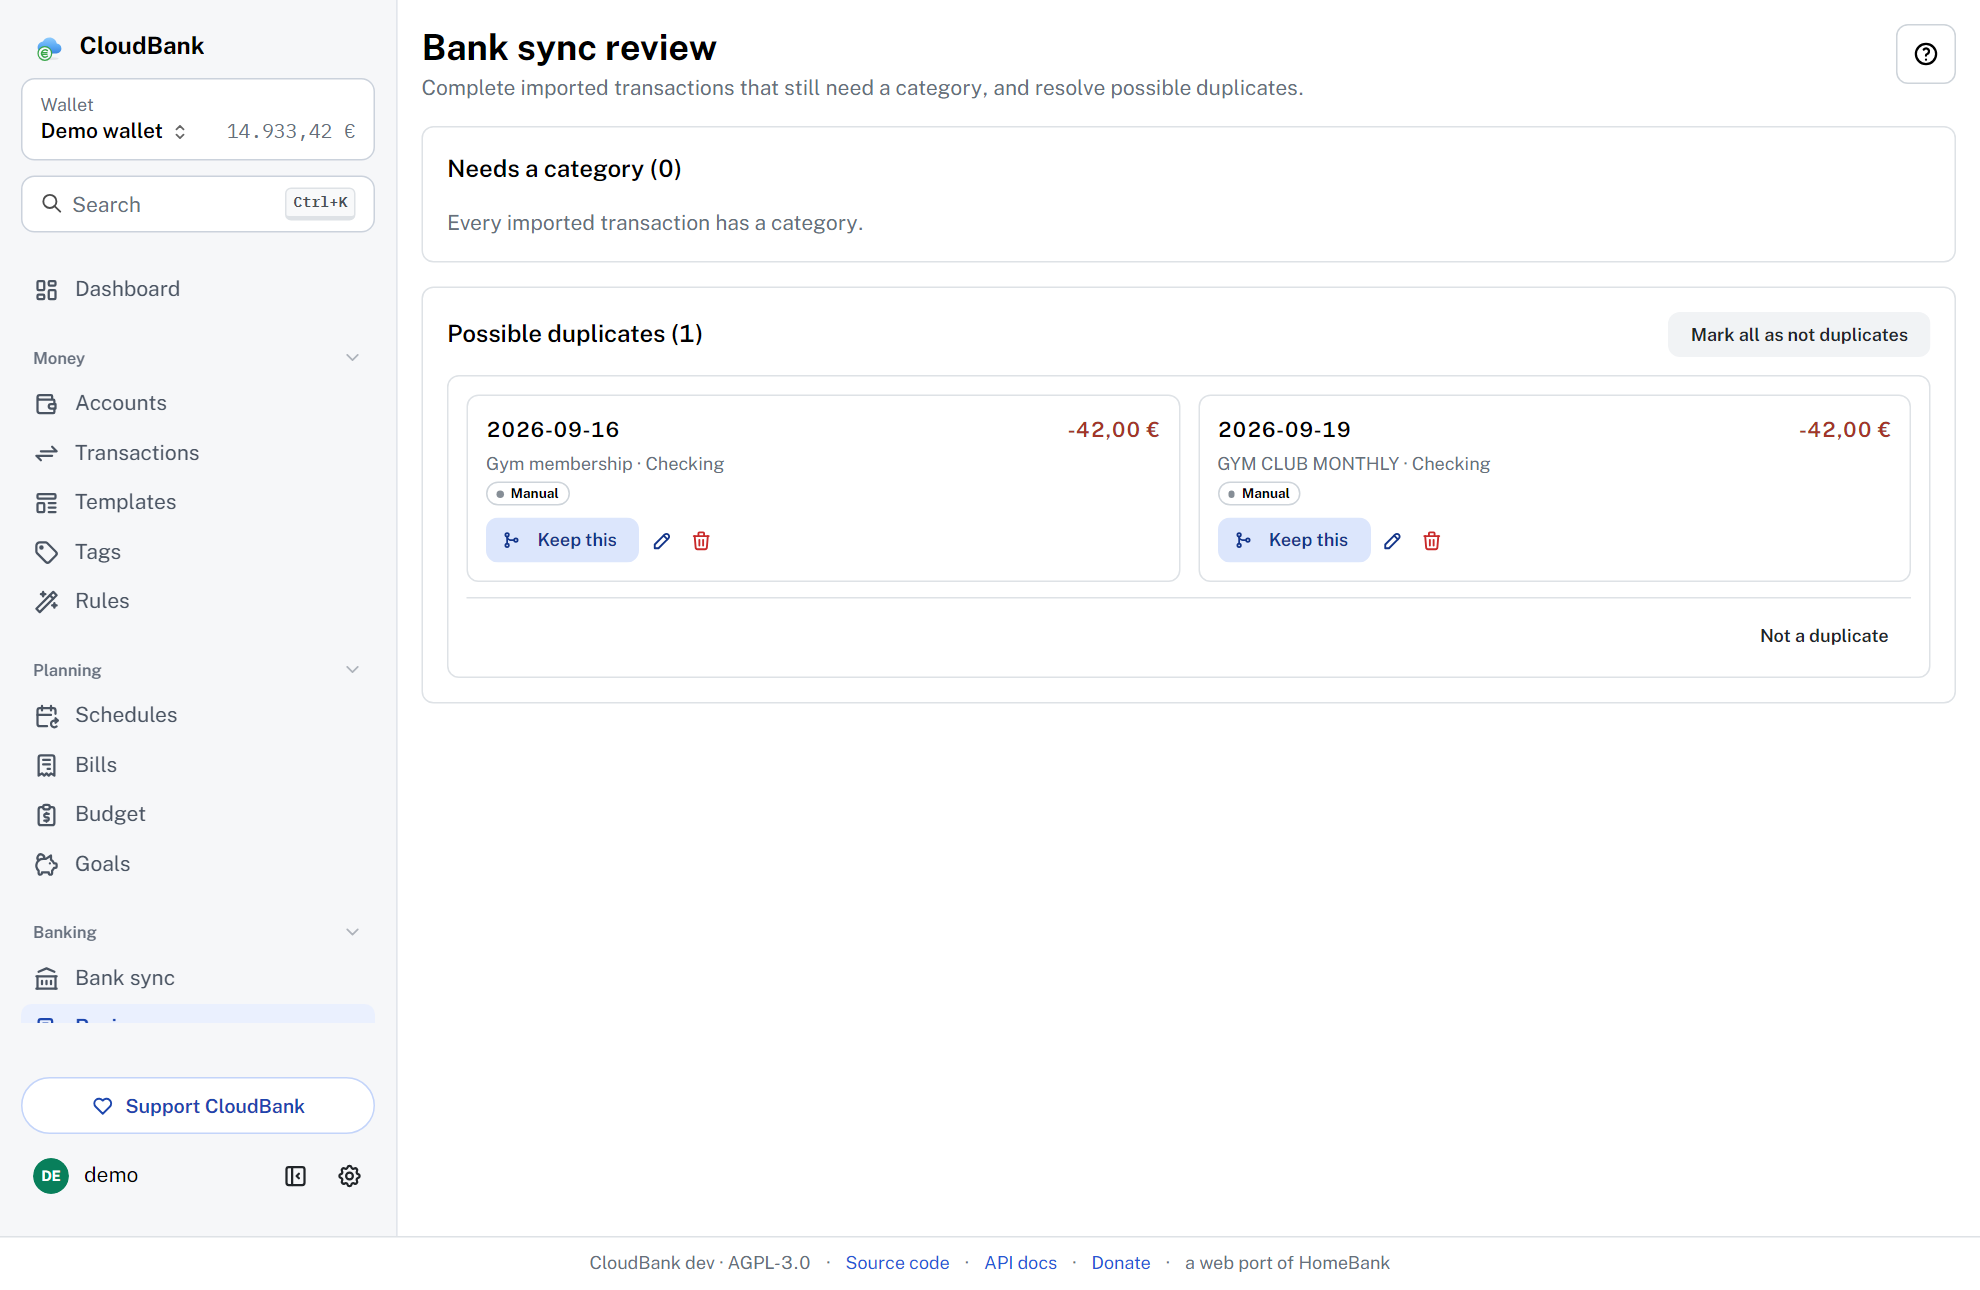
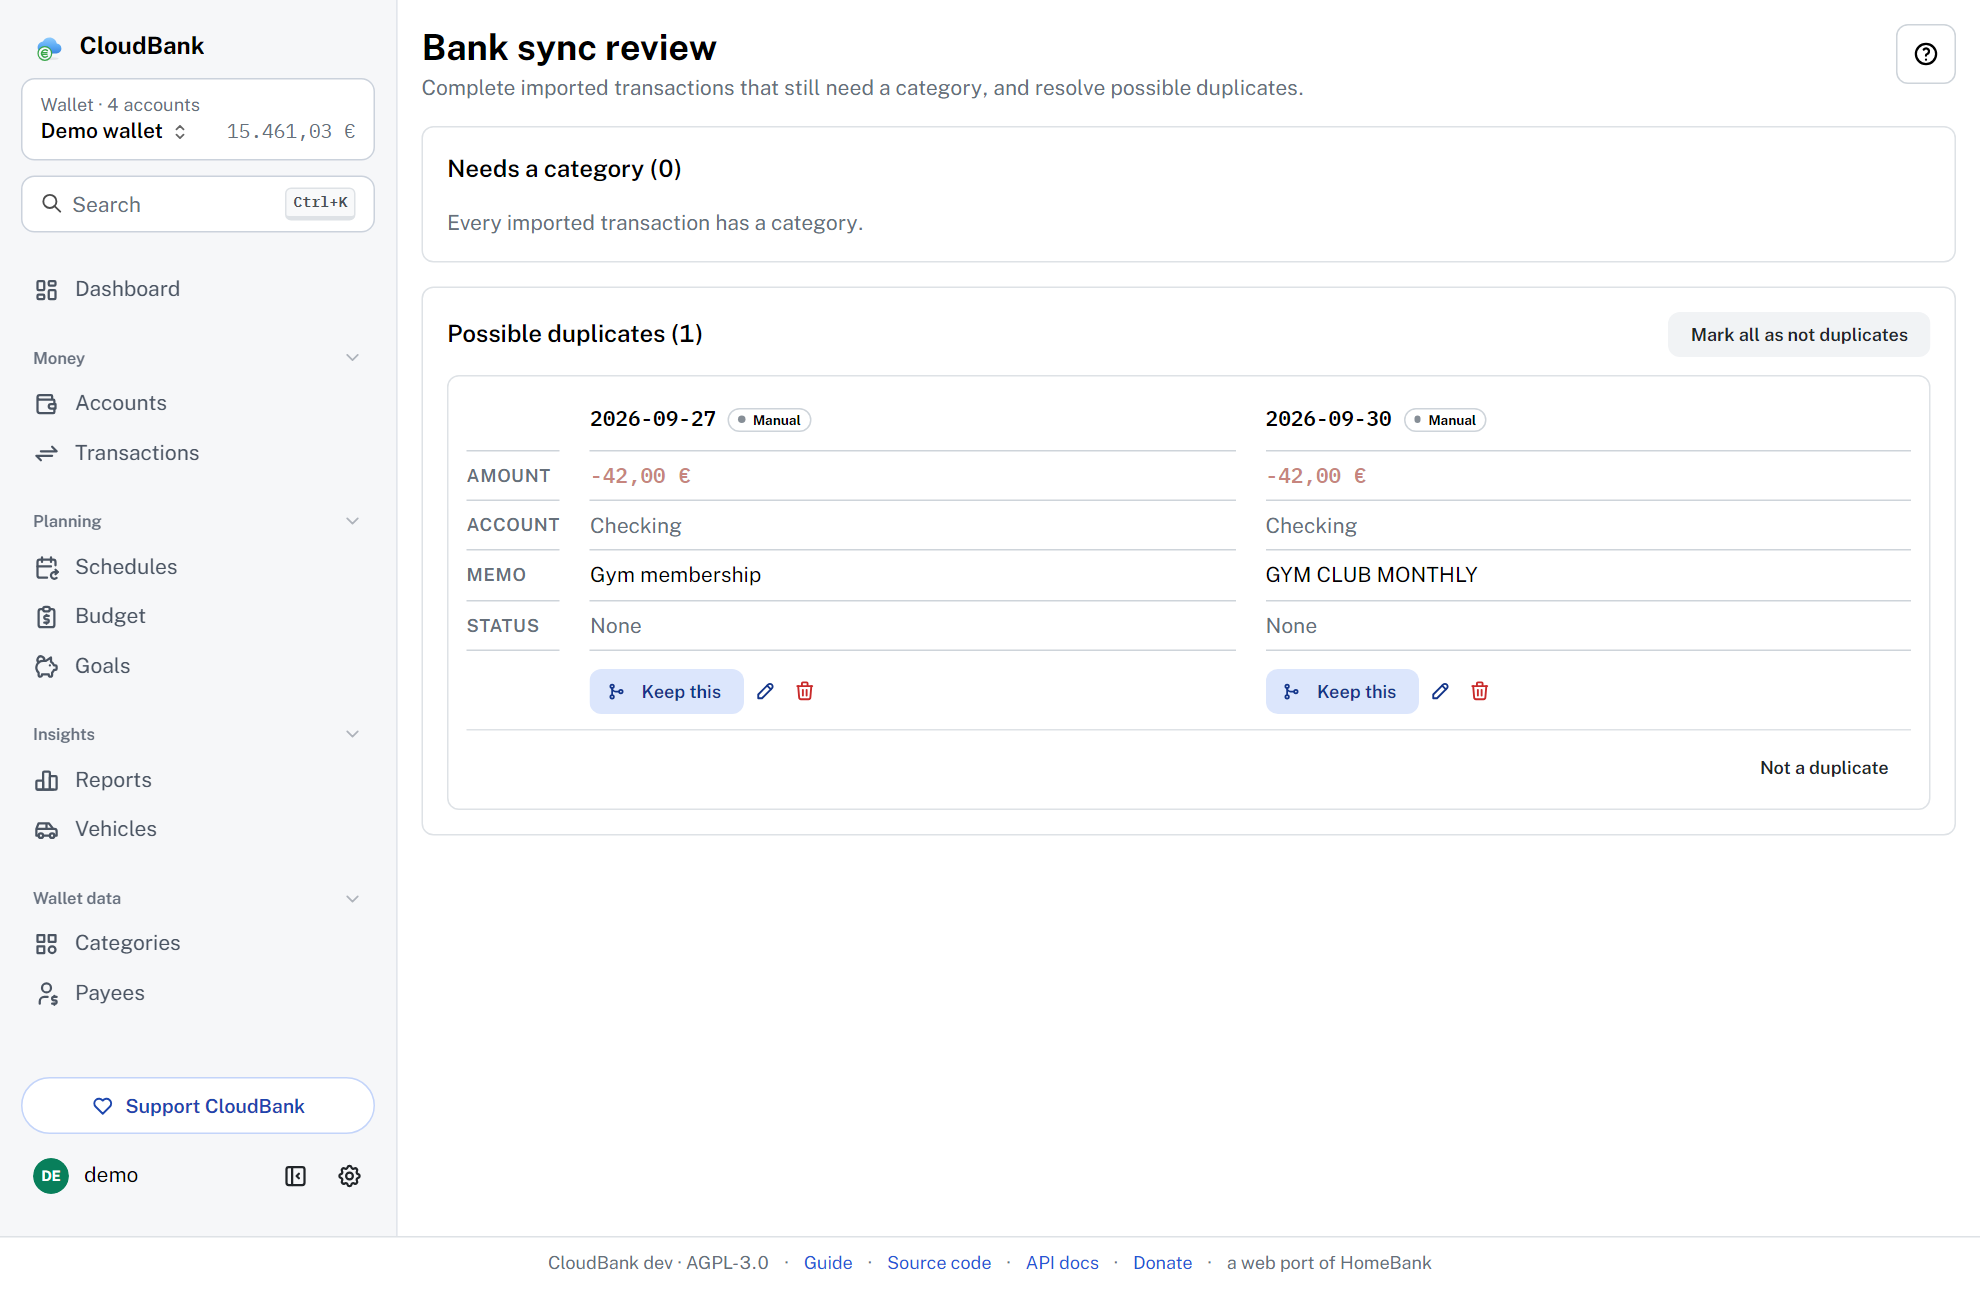
Bring the CloudBank page up to 3.7.0
The features, captions and screenshots described CloudBank as it was at
3.2.0: a Bills view, five classic reports, two bank-sync providers. Now
the schedules calendar, the four report tabs, goals, vehicles, the
wallet's list pages, Pluggy and the update notice are on the page, and
every screenshot is retaken from the demo data. Budget and Categories
join the reel; the bills shot becomes the schedules one.

diff --git a/cloudbank.html b/cloudbank.html
@@ -63,7 +63,7 @@
           <!-- One child: .state is a flex row, and a bare span would get the gap around it. -->
           <p class="state live">
             <span
-              >Shipping, <span data-cloudbank="stable">v3.2.0</span>. Open source under AGPL-3.0.</span
+              >Shipping, <span data-cloudbank="stable">v3.7.0</span>. Open source under AGPL-3.0.</span
             >
           </p>
           <h1 class="display unfurl"><span>CloudBank</span></h1>
@@ -131,7 +131,7 @@
           <figure>
             <img
               src="assets/cloudbank-dashboard.png"
-              alt="CloudBank dashboard with today's balance, income and spending, a panel of things that need attention and an income versus expense chart"
+              alt="CloudBank dashboard with today's balance, what was earned, spent and kept, a panel of three things that want attention and an income versus expense chart"
               loading="lazy"
             />
             <figcaption>The dashboard — a fully customizable, free-form grid of widgets.</figcaption>
@@ -160,53 +160,73 @@
               <dt>Powerful register</dt>
               <dd>
                 Running balance, rich filtering with a future-transactions toggle, full-text search
-                across memo, payee and category, per-user columns, a live selection total,
-                reconciliation and double-click-to-edit.
+                across memo, payee and category, per-user columns, a live selection total and
+                reconciliation. New entries go in a sheet beside the ledger, so the rows stay in
+                view.
               </dd>
             </div>
             <div>
-              <dt>Scheduled transactions</dt>
+              <dt>Bills on a calendar</dt>
               <dd>
-                Automatic posting (optionally pre-registering up to three months ahead), per-period
-                income and expense summaries, templates, and assignment rules for
-                auto-categorization.
+                Scheduled transactions with automatic posting, shown on the day each one falls:
+                what is still to pay, what is overdue, and a column of what needs you, registered
+                or skipped in one click. Templates and assignment rules do the typing for you.
               </dd>
             </div>
             <div>
-              <dt>Budgets and reports</dt>
+              <dt>Budgets and reports that answer first</dt>
               <dd>
-                Budgets plus a full report suite — Statistics, Trend Time, Balance, Budget and
-                Vehicle cost — with interactive charts and CSV/PNG export.
+                A budget that puts what you planned next to what you spent. Reports for where the
+                money went, what came in and went out, what your accounts hold and will hold, and
+                what a car costs, for any month, quarter or year, with saved views and CSV/PNG
+                downloads.
               </dd>
             </div>
             <div>
-              <dt>Savings goals and bills</dt>
+              <dt>Savings goals</dt>
               <dd>
-                Piggy-bank savings goals with contribute and withdraw, a progress bar and a target
-                date; plus a "what's due" Bills view over your schedules (upcoming, due, overdue)
-                with one-click posting.
+                What you have set aside, what to put aside each month to meet every date, and what
+                is free to spend once it is. Close a goal, reached or given up on, into a history
+                you can reopen.
+              </dd>
+            </div>
+            <div>
+              <dt>Vehicles</dt>
+              <dd>
+                What each car, motorbike or van costs to run over the last year: fuel, kilometres,
+                cost per kilometre and consumption, from the fuel payments linked to it.
+              </dd>
+            </div>
+            <div>
+              <dt>The wallet's lists</dt>
+              <dd>
+                Categories, payees, tags, rules, templates and currencies each get a page of their
+                own, with what every entry did over the last 12 months and a panel beside the list
+                to edit it.
               </dd>
             </div>
             <div>
               <dt>Import and export</dt>
               <dd>
-                Import HomeBank <code>.xhb</code>, QIF, OFX/QFX and CSV with an assistant; export
-                back to HomeBank <code>.xhb</code>, QIF and CSV.
+                Import HomeBank <code>.xhb</code>, QIF, OFX/QFX, CSV and CAMT.053 with an
+                assistant; export back to HomeBank <code>.xhb</code>, QIF and CSV.
               </dd>
             </div>
             <div>
               <dt>Automatic bank sync</dt>
               <dd>
-                Pull new transactions straight from your bank — de-duplicated and run through your
-                rules — via SimpleFIN (worldwide) or Enable Banking (EU/EEA and UK, PSD2), refreshed
-                on a schedule in the background. Your bank credentials never touch the client.
+                Pull new transactions straight from your bank — merged with what you already
+                entered and run through your rules — via SimpleFIN (worldwide), Enable Banking
+                (EU/EEA and UK, PSD2) or, experimentally, Pluggy (Latin America), refreshed on a
+                schedule in the background. A review page settles anything that needs a category
+                or looks like a duplicate.
               </dd>
             </div>
             <div>
               <dt>Multi-currency, multi-user</dt>
               <dd>
-                Manual and online (ECB, frankfurter.app) exchange rates, admin-managed users, a
-                responsive UI, and English and Italian.
+                Manual and online (ECB, frankfurter.app) exchange rates, totals that say how many
+                accounts they add up, admin-managed users, a responsive UI, and English and Italian.
               </dd>
             </div>
           </dl>
@@ -223,7 +243,7 @@
           <p>
             Pick from light, dark or auto themes with an accent-colour picker that follows you
             across devices, a collapsible and reorderable sidebar, HomeBank-style smart amount
-            entry, and a first-login tutorial you can restart any time.
+            entry, and a short tour on each page that the ? in its header plays again.
           </p>
           <div class="reel">
             <figure>
@@ -247,20 +267,40 @@
             <figure>
               <img
                 src="assets/cloudbank-reports.png"
-                alt="CloudBank reports showing spending by category as a doughnut chart, with filters above it"
+                alt="CloudBank cash flow report for 2026 with what was kept so far, a bar per month of money in and out, and a table of the months"
                 loading="lazy"
               />
               <figcaption>
-                Reports — statistics, trends, balance and vehicle cost, exported as CSV or PNG.
+                Reports — spending, cash flow, balances and vehicle cost, as CSV or PNG.
               </figcaption>
             </figure>
             <figure>
               <img
-                src="assets/cloudbank-bills.png"
-                alt="CloudBank bills page listing one overdue and three due bills with the total to pay"
+                src="assets/cloudbank-schedules.png"
+                alt="CloudBank schedules calendar for October with the amount still to pay, one overdue bill and a column of what needs registering"
                 loading="lazy"
               />
-              <figcaption>Bills — what is overdue and what is next, marked paid in one click.</figcaption>
+              <figcaption>
+                Schedules — the month's bills on a calendar, registered in one click.
+              </figcaption>
+            </figure>
+            <figure>
+              <img
+                src="assets/cloudbank-budget.png"
+                alt="CloudBank budget for October with spent and left for the month, and planned against spent for each category"
+                loading="lazy"
+              />
+              <figcaption>Budget — what you planned, next to what you spent.</figcaption>
+            </figure>
+            <figure>
+              <img
+                src="assets/cloudbank-categories.png"
+                alt="CloudBank categories grouped with each one's share of spending, and Groceries open for editing in a panel beside the list"
+                loading="lazy"
+              />
+              <figcaption>
+                Categories — what each one did, edited in a panel beside the list.
+              </figcaption>
             </figure>
             <figure>
               <img
@@ -335,6 +375,14 @@
                 the push key in the database with AES-256-GCM.
               </dd>
             </div>
+            <div>
+              <dt>Told when to update</dt>
+              <dd>
+                An open page offers a new build instead of swapping it in under you, and admins
+                are told when a newer CloudBank is published, with the steps to update. One
+                setting turns the check off.
+              </dd>
+            </div>
           </dl>
         </section>
 
@@ -389,8 +437,8 @@ volumes:
             <tr>
               <th scope="row">Stable, <code>:main</code></th>
               <td>
-                <span data-cloudbank="stable">v3.2.0</span>, published
-                <span data-cloudbank-date="stable">September 2026</span>
+                <span data-cloudbank="stable">v3.7.0</span>, published
+                <span data-cloudbank-date="stable">October 2026</span>
               </td>
             </tr>
             <tr>

diff --git a/index.html b/index.html
@@ -308,7 +308,7 @@
             <span class="name">CloudBank</span>
             <span class="what">Personal finance manager, open source</span>
             <span class="state live">
-              <span>Shipping, <span data-cloudbank="stable">v3.2.0</span></span>
+              <span>Shipping, <span data-cloudbank="stable">v3.7.0</span></span>
             </span>
           </a>
           <a
@@ -347,9 +347,9 @@
             <h2>CloudBank</h2>
             <p>
               A free, self-hosted personal finance manager — a from-scratch web port of
-              <strong>HomeBank</strong>, now at <span data-cloudbank="stable">v3.2.0</span>. Accounts,
-              a powerful register, scheduled transactions, budgets and reports, plus automatic bank
-              sync, savings goals and bills.
+              <strong>HomeBank</strong>, now at <span data-cloudbank="stable">v3.7.0</span>. Accounts,
+              a powerful register, bills on a calendar, budgets and reports that answer first, plus
+              automatic bank sync, savings goals and vehicle costs.
             </p>
             <p>
               It installs to your phone or desktop as a PWA, supports two-factor auth, and offers
@@ -368,7 +368,7 @@
             <figure>
               <img
                 src="assets/cloudbank-dashboard.png"
-                alt="CloudBank dashboard with today's balance, income and spending, a panel of things that need attention and an income versus expense chart"
+                alt="CloudBank dashboard with today's balance, what was earned, spent and kept, a panel of three things that want attention and an income versus expense chart"
                 loading="lazy"
               />
               <figcaption>The dashboard is a free-form grid — place and resize any widget.</figcaption>
@@ -384,10 +384,10 @@
             <figure>
               <img
                 src="assets/cloudbank-reports.png"
-                alt="CloudBank reports showing spending by category as a doughnut chart, with filters above it"
+                alt="CloudBank cash flow report for 2026 with what was kept so far, a bar per month of money in and out, and a table of the months"
                 loading="lazy"
               />
-              <figcaption>Reports — statistics, trends, balance and vehicle cost.</figcaption>
+              <figcaption>Reports — spending, cash flow, balances and vehicle cost.</figcaption>
             </figure>
             <figure>
               <img

diff --git a/about.html b/about.html
@@ -195,7 +195,7 @@
               <dt><a href="cloudbank.html">CloudBank</a></dt>
               <dd>
                 A free, open-source, self-hosted personal finance manager — a web port of HomeBank.
-                Shipping at <span data-cloudbank="stable">v3.2.0</span>.
+                Shipping at <span data-cloudbank="stable">v3.7.0</span>.
               </dd>
             </div>
             <div>
